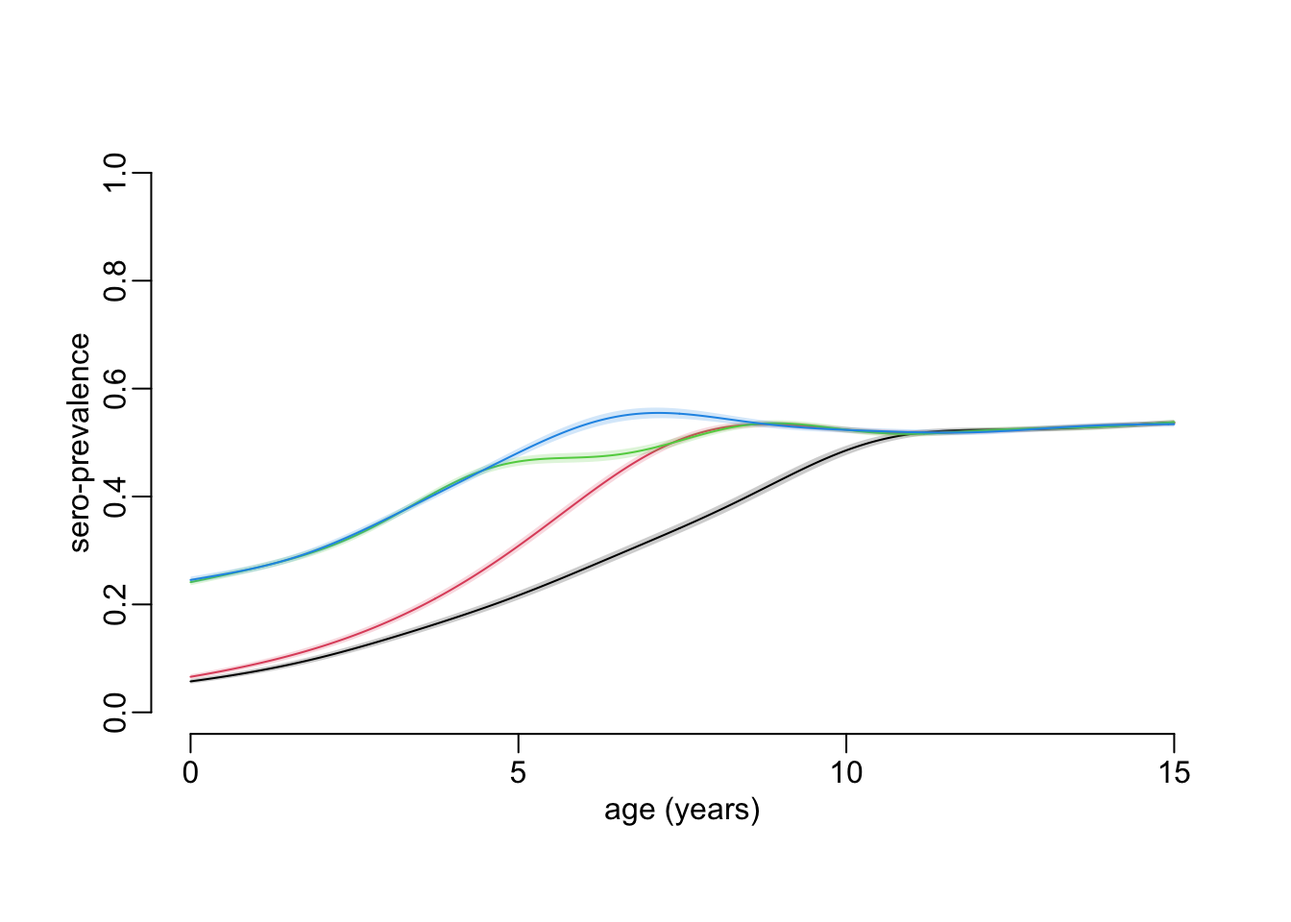
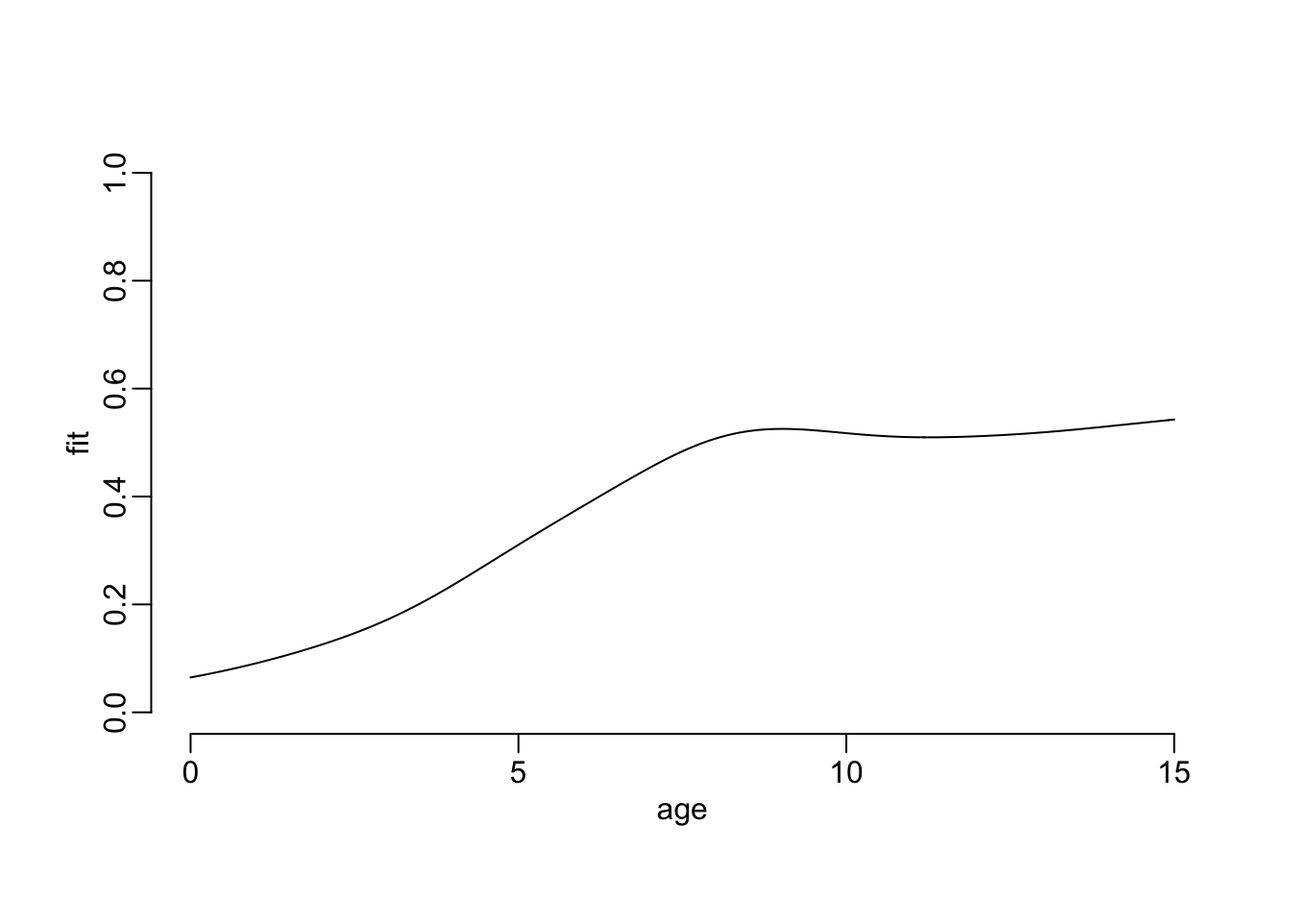
Adding extrapolation on age

diff --git a/analysis.html b/analysis.html
@@ -90,7 +90,10 @@ pre > code.sourceCode > span > a:first-child::before { text-decoration: underlin
   <li><a href="#algorithm" id="toc-algorithm" class="nav-link" data-scroll-target="#algorithm"><span class="header-section-number">6.2</span> Algorithm</a></li>
   <li><a href="#implementation" id="toc-implementation" class="nav-link" data-scroll-target="#implementation"><span class="header-section-number">6.3</span> Implementation</a></li>
   </ul></li>
-  <li><a href="#correcting-for-aging" id="toc-correcting-for-aging" class="nav-link" data-scroll-target="#correcting-for-aging"><span class="header-section-number">7</span> Correcting for aging</a></li>
+  <li><a href="#correcting-for-aging" id="toc-correcting-for-aging" class="nav-link" data-scroll-target="#correcting-for-aging"><span class="header-section-number">7</span> Correcting for aging</a>
+  <ul class="collapse">
+  <li><a href="#with-extrapolation" id="toc-with-extrapolation" class="nav-link" data-scroll-target="#with-extrapolation"><span class="header-section-number">7.1</span> With extrapolation</a></li>
+  </ul></li>
   </ul>
 </nav>
 </div>
@@ -353,49 +356,51 @@ pre > code.sourceCode > span > a:first-child::before { text-decoration: underlin
 <span id="cb18-20"><a href="#cb18-20" aria-hidden="true" tabindex="-1"></a>    <span class="fu">bind_rows</span>() <span class="sc">|&gt;</span> </span>
 <span id="cb18-21"><a href="#cb18-21" aria-hidden="true" tabindex="-1"></a>    <span class="fu">na.exclude</span>()</span>
 <span id="cb18-22"><a href="#cb18-22" aria-hidden="true" tabindex="-1"></a><span class="co">#</span><span class="re">END</span><span class="co">###################################################################################</span></span>
-<span id="cb18-23"><a href="#cb18-23" aria-hidden="true" tabindex="-1"></a>  data <span class="sc">|&gt;</span> </span>
-<span id="cb18-24"><a href="#cb18-24" aria-hidden="true" tabindex="-1"></a><span class="co"># Step 1:</span></span>
-<span id="cb18-25"><a href="#cb18-25" aria-hidden="true" tabindex="-1"></a>    <span class="fu">group_by</span>(collection) <span class="sc">|&gt;</span> </span>
-<span id="cb18-26"><a href="#cb18-26" aria-hidden="true" tabindex="-1"></a>    <span class="fu">group_modify</span>(<span class="sc">~</span> .x <span class="sc">|&gt;</span></span>
-<span id="cb18-27"><a href="#cb18-27" aria-hidden="true" tabindex="-1"></a>                   <span class="fu">age_profile</span>(age_values, ci) <span class="sc">|&gt;</span> </span>
-<span id="cb18-28"><a href="#cb18-28" aria-hidden="true" tabindex="-1"></a>                   <span class="fu">mutate</span>(<span class="fu">across</span>(<span class="fu">c</span>(fit, lwr, upr), <span class="sc">~</span> <span class="fu">map</span>(.x, <span class="sc">~</span> <span class="fu">rbinom</span>(n, <span class="dv">1</span>, .x))))) <span class="sc">|&gt;</span> </span>
-<span id="cb18-29"><a href="#cb18-29" aria-hidden="true" tabindex="-1"></a><span class="co">#START#################################################################################</span></span>
-<span id="cb18-30"><a href="#cb18-30" aria-hidden="true" tabindex="-1"></a><span class="co"># First modification:</span></span>
-<span id="cb18-31"><a href="#cb18-31" aria-hidden="true" tabindex="-1"></a><span class="co">#    ungroup() |&gt; </span></span>
-<span id="cb18-32"><a href="#cb18-32" aria-hidden="true" tabindex="-1"></a><span class="co">#    mutate(collection_time = mean_collection_times[as.character(collection)]) |&gt; </span></span>
-<span id="cb18-33"><a href="#cb18-33" aria-hidden="true" tabindex="-1"></a>    <span class="fu">group_split</span>() <span class="sc">|&gt;</span> </span>
-<span id="cb18-34"><a href="#cb18-34" aria-hidden="true" tabindex="-1"></a>    <span class="fu">map2</span>(age_time, bind_cols) <span class="sc">|&gt;</span> </span>
-<span id="cb18-35"><a href="#cb18-35" aria-hidden="true" tabindex="-1"></a>    <span class="fu">bind_rows</span>() <span class="sc">|&gt;</span> </span>
-<span id="cb18-36"><a href="#cb18-36" aria-hidden="true" tabindex="-1"></a><span class="co">#</span><span class="re">END</span><span class="co">###################################################################################</span></span>
-<span id="cb18-37"><a href="#cb18-37" aria-hidden="true" tabindex="-1"></a>    <span class="fu">unnest</span>(<span class="fu">c</span>(fit, lwr, upr)) <span class="sc">|&gt;</span></span>
-<span id="cb18-38"><a href="#cb18-38" aria-hidden="true" tabindex="-1"></a>    <span class="fu">pivot_longer</span>(<span class="fu">c</span>(fit, lwr, upr), <span class="at">names_to =</span> <span class="st">"line"</span>, <span class="at">values_to =</span> <span class="st">"seropositvty"</span>) <span class="sc">|&gt;</span> </span>
-<span id="cb18-39"><a href="#cb18-39" aria-hidden="true" tabindex="-1"></a><span class="co"># Step 2a:</span></span>
-<span id="cb18-40"><a href="#cb18-40" aria-hidden="true" tabindex="-1"></a><span class="co">#START#################################################################################</span></span>
-<span id="cb18-41"><a href="#cb18-41" aria-hidden="true" tabindex="-1"></a><span class="co"># Second modification:</span></span>
-<span id="cb18-42"><a href="#cb18-42" aria-hidden="true" tabindex="-1"></a><span class="co">#    group_by(age, line) |&gt;  </span></span>
-<span id="cb18-43"><a href="#cb18-43" aria-hidden="true" tabindex="-1"></a>    <span class="fu">filter</span>(cohort <span class="sc">&lt;</span> <span class="fu">max</span>(age) <span class="sc">-</span> <span class="fu">diff</span>(<span class="fu">range</span>(mean_collection_times)) <span class="sc">/</span> <span class="dv">365</span>) <span class="sc">|&gt;</span></span>
-<span id="cb18-44"><a href="#cb18-44" aria-hidden="true" tabindex="-1"></a>    <span class="fu">group_by</span>(cohort, line) <span class="sc">|&gt;</span> </span>
-<span id="cb18-45"><a href="#cb18-45" aria-hidden="true" tabindex="-1"></a><span class="co">#</span><span class="re">END</span><span class="co">###################################################################################</span></span>
-<span id="cb18-46"><a href="#cb18-46" aria-hidden="true" tabindex="-1"></a>    <span class="fu">group_modify</span>(<span class="sc">~</span> .x <span class="sc">%&gt;%</span></span>
-<span id="cb18-47"><a href="#cb18-47" aria-hidden="true" tabindex="-1"></a>                   <span class="fu">scam</span>(seropositvty <span class="sc">~</span> <span class="fu">s</span>(collection_time, <span class="at">bs =</span> <span class="st">"mpi"</span>), binomial, .) <span class="sc">|&gt;</span> </span>
-<span id="cb18-48"><a href="#cb18-48" aria-hidden="true" tabindex="-1"></a>                   <span class="fu">predict2</span>(<span class="fu">list</span>(<span class="at">collection_time =</span> mean_collection_times)) <span class="sc">%&gt;%</span></span>
-<span id="cb18-49"><a href="#cb18-49" aria-hidden="true" tabindex="-1"></a>                   <span class="fu">tibble</span>(<span class="at">collection_time =</span> mean_collection_times,</span>
-<span id="cb18-50"><a href="#cb18-50" aria-hidden="true" tabindex="-1"></a>                          <span class="at">seroprevalence  =</span> .)) <span class="sc">|&gt;</span> </span>
-<span id="cb18-51"><a href="#cb18-51" aria-hidden="true" tabindex="-1"></a>    <span class="fu">ungroup</span>() <span class="sc">|&gt;</span> </span>
-<span id="cb18-52"><a href="#cb18-52" aria-hidden="true" tabindex="-1"></a><span class="co"># Step 2b:</span></span>
-<span id="cb18-53"><a href="#cb18-53" aria-hidden="true" tabindex="-1"></a><span class="co">#START#################################################################################</span></span>
-<span id="cb18-54"><a href="#cb18-54" aria-hidden="true" tabindex="-1"></a><span class="co"># Third modification:  </span></span>
-<span id="cb18-55"><a href="#cb18-55" aria-hidden="true" tabindex="-1"></a>    <span class="fu">left_join</span>(age_time_inv, <span class="at">by =</span> <span class="fu">c</span>(<span class="st">"cohort"</span>, <span class="st">"collection_time"</span>)) <span class="sc">|&gt;</span> </span>
-<span id="cb18-56"><a href="#cb18-56" aria-hidden="true" tabindex="-1"></a><span class="co">#</span><span class="re">END</span><span class="co">###################################################################################</span></span>
-<span id="cb18-57"><a href="#cb18-57" aria-hidden="true" tabindex="-1"></a>    <span class="fu">group_by</span>(collection_time, line) <span class="sc">|&gt;</span> </span>
-<span id="cb18-58"><a href="#cb18-58" aria-hidden="true" tabindex="-1"></a>    <span class="fu">group_modify</span>(<span class="sc">~</span> .x <span class="sc">|&gt;</span></span>
-<span id="cb18-59"><a href="#cb18-59" aria-hidden="true" tabindex="-1"></a>                   <span class="fu">mutate</span>(<span class="fu">across</span>(seroprevalence, <span class="sc">~</span> <span class="fu">gam</span>(.x <span class="sc">~</span> <span class="fu">s</span>(age), betar) <span class="sc">|&gt;</span> </span>
-<span id="cb18-60"><a href="#cb18-60" aria-hidden="true" tabindex="-1"></a>                                                   <span class="fu">predict2</span>()))) <span class="sc">|&gt;</span> </span>
-<span id="cb18-61"><a href="#cb18-61" aria-hidden="true" tabindex="-1"></a>    <span class="fu">ungroup</span>() <span class="sc">|&gt;</span> </span>
-<span id="cb18-62"><a href="#cb18-62" aria-hidden="true" tabindex="-1"></a>    <span class="fu">pivot_wider</span>(<span class="at">names_from =</span> line, <span class="at">values_from =</span> seroprevalence) <span class="sc">|&gt;</span> </span>
-<span id="cb18-63"><a href="#cb18-63" aria-hidden="true" tabindex="-1"></a>    <span class="fu">group_by</span>(collection_time) <span class="sc">|&gt;</span> </span>
-<span id="cb18-64"><a href="#cb18-64" aria-hidden="true" tabindex="-1"></a>    <span class="fu">group_split</span>()</span>
-<span id="cb18-65"><a href="#cb18-65" aria-hidden="true" tabindex="-1"></a>}</span></code><button title="Copy to Clipboard" class="code-copy-button"><i class="bi"></i></button></pre></div>
+<span id="cb18-23"><a href="#cb18-23" aria-hidden="true" tabindex="-1"></a></span>
+<span id="cb18-24"><a href="#cb18-24" aria-hidden="true" tabindex="-1"></a>  data <span class="sc">|&gt;</span> </span>
+<span id="cb18-25"><a href="#cb18-25" aria-hidden="true" tabindex="-1"></a><span class="co"># Step 1:</span></span>
+<span id="cb18-26"><a href="#cb18-26" aria-hidden="true" tabindex="-1"></a>    <span class="fu">group_by</span>(collection) <span class="sc">|&gt;</span> </span>
+<span id="cb18-27"><a href="#cb18-27" aria-hidden="true" tabindex="-1"></a>    <span class="fu">group_modify</span>(<span class="sc">~</span> .x <span class="sc">|&gt;</span></span>
+<span id="cb18-28"><a href="#cb18-28" aria-hidden="true" tabindex="-1"></a>                   <span class="fu">age_profile</span>(age_values, ci) <span class="sc">|&gt;</span> </span>
+<span id="cb18-29"><a href="#cb18-29" aria-hidden="true" tabindex="-1"></a>                   <span class="fu">mutate</span>(<span class="fu">across</span>(<span class="fu">c</span>(fit, lwr, upr), <span class="sc">~</span> <span class="fu">map</span>(.x, <span class="sc">~</span> <span class="fu">rbinom</span>(n, <span class="dv">1</span>, .x))))) <span class="sc">|&gt;</span> </span>
+<span id="cb18-30"><a href="#cb18-30" aria-hidden="true" tabindex="-1"></a><span class="co">#START#################################################################################</span></span>
+<span id="cb18-31"><a href="#cb18-31" aria-hidden="true" tabindex="-1"></a><span class="co"># First modification:</span></span>
+<span id="cb18-32"><a href="#cb18-32" aria-hidden="true" tabindex="-1"></a><span class="co">#    ungroup() |&gt; </span></span>
+<span id="cb18-33"><a href="#cb18-33" aria-hidden="true" tabindex="-1"></a><span class="co">#    mutate(collection_time = mean_collection_times[as.character(collection)]) |&gt; </span></span>
+<span id="cb18-34"><a href="#cb18-34" aria-hidden="true" tabindex="-1"></a>    <span class="fu">group_split</span>() <span class="sc">|&gt;</span> </span>
+<span id="cb18-35"><a href="#cb18-35" aria-hidden="true" tabindex="-1"></a>    <span class="fu">map2</span>(age_time, bind_cols) <span class="sc">|&gt;</span> </span>
+<span id="cb18-36"><a href="#cb18-36" aria-hidden="true" tabindex="-1"></a>    <span class="fu">bind_rows</span>() <span class="sc">|&gt;</span> </span>
+<span id="cb18-37"><a href="#cb18-37" aria-hidden="true" tabindex="-1"></a><span class="co">#</span><span class="re">END</span><span class="co">###################################################################################</span></span>
+<span id="cb18-38"><a href="#cb18-38" aria-hidden="true" tabindex="-1"></a>    <span class="fu">unnest</span>(<span class="fu">c</span>(fit, lwr, upr)) <span class="sc">|&gt;</span></span>
+<span id="cb18-39"><a href="#cb18-39" aria-hidden="true" tabindex="-1"></a>    <span class="fu">pivot_longer</span>(<span class="fu">c</span>(fit, lwr, upr), <span class="at">names_to =</span> <span class="st">"line"</span>, <span class="at">values_to =</span> <span class="st">"seropositvty"</span>) <span class="sc">|&gt;</span> </span>
+<span id="cb18-40"><a href="#cb18-40" aria-hidden="true" tabindex="-1"></a><span class="co"># Step 2a:</span></span>
+<span id="cb18-41"><a href="#cb18-41" aria-hidden="true" tabindex="-1"></a><span class="co">#START#################################################################################</span></span>
+<span id="cb18-42"><a href="#cb18-42" aria-hidden="true" tabindex="-1"></a><span class="co"># Second modification:</span></span>
+<span id="cb18-43"><a href="#cb18-43" aria-hidden="true" tabindex="-1"></a><span class="co">#    group_by(age, line) |&gt;  </span></span>
+<span id="cb18-44"><a href="#cb18-44" aria-hidden="true" tabindex="-1"></a>    <span class="fu">filter</span>(cohort <span class="sc">&lt;</span> <span class="fu">max</span>(age) <span class="sc">-</span> <span class="fu">diff</span>(<span class="fu">range</span>(mean_collection_times)) <span class="sc">/</span> <span class="dv">365</span>) <span class="sc">|&gt;</span></span>
+<span id="cb18-45"><a href="#cb18-45" aria-hidden="true" tabindex="-1"></a>    <span class="fu">group_by</span>(cohort, line) <span class="sc">|&gt;</span> </span>
+<span id="cb18-46"><a href="#cb18-46" aria-hidden="true" tabindex="-1"></a><span class="co">#</span><span class="re">END</span><span class="co">###################################################################################</span></span>
+<span id="cb18-47"><a href="#cb18-47" aria-hidden="true" tabindex="-1"></a>    <span class="fu">group_modify</span>(<span class="sc">~</span> .x <span class="sc">%&gt;%</span></span>
+<span id="cb18-48"><a href="#cb18-48" aria-hidden="true" tabindex="-1"></a>                   <span class="fu">scam</span>(seropositvty <span class="sc">~</span> <span class="fu">s</span>(collection_time, <span class="at">bs =</span> <span class="st">"mpi"</span>), binomial, .) <span class="sc">|&gt;</span> </span>
+<span id="cb18-49"><a href="#cb18-49" aria-hidden="true" tabindex="-1"></a>                   <span class="fu">predict2</span>(<span class="fu">list</span>(<span class="at">collection_time =</span> mean_collection_times)) <span class="sc">%&gt;%</span></span>
+<span id="cb18-50"><a href="#cb18-50" aria-hidden="true" tabindex="-1"></a>                   <span class="fu">tibble</span>(<span class="at">collection_time =</span> mean_collection_times,</span>
+<span id="cb18-51"><a href="#cb18-51" aria-hidden="true" tabindex="-1"></a>                          <span class="at">seroprevalence  =</span> .)) <span class="sc">|&gt;</span> </span>
+<span id="cb18-52"><a href="#cb18-52" aria-hidden="true" tabindex="-1"></a>    <span class="fu">ungroup</span>() <span class="sc">|&gt;</span> </span>
+<span id="cb18-53"><a href="#cb18-53" aria-hidden="true" tabindex="-1"></a><span class="co"># Step 2b:</span></span>
+<span id="cb18-54"><a href="#cb18-54" aria-hidden="true" tabindex="-1"></a><span class="co">#START#################################################################################</span></span>
+<span id="cb18-55"><a href="#cb18-55" aria-hidden="true" tabindex="-1"></a><span class="co"># Third modification:  </span></span>
+<span id="cb18-56"><a href="#cb18-56" aria-hidden="true" tabindex="-1"></a>    <span class="fu">left_join</span>(age_time_inv, <span class="fu">c</span>(<span class="st">"cohort"</span>, <span class="st">"collection_time"</span>)) <span class="sc">|&gt;</span> </span>
+<span id="cb18-57"><a href="#cb18-57" aria-hidden="true" tabindex="-1"></a><span class="co">#</span><span class="re">END</span><span class="co">###################################################################################</span></span>
+<span id="cb18-58"><a href="#cb18-58" aria-hidden="true" tabindex="-1"></a>    <span class="fu">group_by</span>(collection_time, line) <span class="sc">|&gt;</span> </span>
+<span id="cb18-59"><a href="#cb18-59" aria-hidden="true" tabindex="-1"></a>    <span class="fu">group_modify</span>(<span class="sc">~</span> .x <span class="sc">|&gt;</span></span>
+<span id="cb18-60"><a href="#cb18-60" aria-hidden="true" tabindex="-1"></a>                   <span class="fu">mutate</span>(<span class="fu">across</span>(seroprevalence,</span>
+<span id="cb18-61"><a href="#cb18-61" aria-hidden="true" tabindex="-1"></a>                                 <span class="sc">~</span> <span class="fu">gam</span>(.x <span class="sc">~</span> <span class="fu">s</span>(age), betar) <span class="sc">|&gt;</span></span>
+<span id="cb18-62"><a href="#cb18-62" aria-hidden="true" tabindex="-1"></a>                                   <span class="fu">predict2</span>()))) <span class="sc">|&gt;</span></span>
+<span id="cb18-63"><a href="#cb18-63" aria-hidden="true" tabindex="-1"></a>    <span class="fu">ungroup</span>() <span class="sc">|&gt;</span> </span>
+<span id="cb18-64"><a href="#cb18-64" aria-hidden="true" tabindex="-1"></a>    <span class="fu">pivot_wider</span>(<span class="at">names_from =</span> line, <span class="at">values_from =</span> seroprevalence) <span class="sc">|&gt;</span> </span>
+<span id="cb18-65"><a href="#cb18-65" aria-hidden="true" tabindex="-1"></a>    <span class="fu">group_by</span>(collection_time) <span class="sc">|&gt;</span> </span>
+<span id="cb18-66"><a href="#cb18-66" aria-hidden="true" tabindex="-1"></a>    <span class="fu">group_split</span>()</span>
+<span id="cb18-67"><a href="#cb18-67" aria-hidden="true" tabindex="-1"></a>}</span></code><button title="Copy to Clipboard" class="code-copy-button"><i class="bi"></i></button></pre></div>
 </div>
 <p>Computing the new sero-prevalence profile (taking another 1’20”):</p>
 <div class="cell">
@@ -412,6 +417,81 @@ pre > code.sourceCode > span > a:first-child::before { text-decoration: underlin
 </div>
 </div>
 </div>
+<section id="with-extrapolation" class="level3" data-number="7.1">
+<h3 data-number="7.1" class="anchored" data-anchor-id="with-extrapolation"><span class="header-section-number">7.1</span> With extrapolation</h3>
+<p>Here is an alternative version of the above <code>age_profile_constrained_cohort()</code> function that performs extrapolation over the whole age range for each time point. Same as before, we highlight the code changes in step 2b:</p>
+<div class="cell">
+<div class="sourceCode cell-code" id="cb21"><pre class="sourceCode r code-with-copy"><code class="sourceCode r"><span id="cb21-1"><a href="#cb21-1" aria-hidden="true" tabindex="-1"></a>age_profile_constrained_cohort2 <span class="ot">&lt;-</span> <span class="cf">function</span>(data, <span class="at">age_values =</span> <span class="fu">seq</span>(<span class="dv">0</span>, <span class="dv">15</span>, <span class="at">le =</span> <span class="dv">512</span>),</span>
+<span id="cb21-2"><a href="#cb21-2" aria-hidden="true" tabindex="-1"></a>                                           <span class="at">ci =</span> .<span class="dv">95</span>, <span class="at">n =</span> <span class="dv">100</span>) {</span>
+<span id="cb21-3"><a href="#cb21-3" aria-hidden="true" tabindex="-1"></a>  mean_collection_times <span class="ot">&lt;-</span> data <span class="sc">|&gt;</span> </span>
+<span id="cb21-4"><a href="#cb21-4" aria-hidden="true" tabindex="-1"></a>    <span class="fu">group_by</span>(collection) <span class="sc">|&gt;</span> </span>
+<span id="cb21-5"><a href="#cb21-5" aria-hidden="true" tabindex="-1"></a>    <span class="fu">summarise</span>(<span class="at">mean_col_date =</span> <span class="fu">mean</span>(col_date2)) <span class="sc">|&gt;</span> </span>
+<span id="cb21-6"><a href="#cb21-6" aria-hidden="true" tabindex="-1"></a>    <span class="fu">with</span>(<span class="fu">setNames</span>(mean_col_date, collection))</span>
+<span id="cb21-7"><a href="#cb21-7" aria-hidden="true" tabindex="-1"></a>  </span>
+<span id="cb21-8"><a href="#cb21-8" aria-hidden="true" tabindex="-1"></a>  cohorts <span class="ot">&lt;-</span> <span class="fu">cumsum</span>(<span class="fu">c</span>(<span class="dv">0</span>, <span class="fu">diff</span>(mean_collection_times))) <span class="sc">|&gt;</span></span>
+<span id="cb21-9"><a href="#cb21-9" aria-hidden="true" tabindex="-1"></a>    <span class="fu">divide_by</span>(<span class="dv">365</span> <span class="sc">*</span> <span class="fu">mean</span>(<span class="fu">diff</span>(age_values))) <span class="sc">|&gt;</span> </span>
+<span id="cb21-10"><a href="#cb21-10" aria-hidden="true" tabindex="-1"></a>    <span class="fu">round</span>() <span class="sc">|&gt;</span> </span>
+<span id="cb21-11"><a href="#cb21-11" aria-hidden="true" tabindex="-1"></a>    <span class="fu">map</span>(shift_right, age_values)</span>
+<span id="cb21-12"><a href="#cb21-12" aria-hidden="true" tabindex="-1"></a>  </span>
+<span id="cb21-13"><a href="#cb21-13" aria-hidden="true" tabindex="-1"></a>  age_time <span class="ot">&lt;-</span> <span class="fu">map2</span>(mean_collection_times, cohorts,</span>
+<span id="cb21-14"><a href="#cb21-14" aria-hidden="true" tabindex="-1"></a>                   <span class="sc">~</span> <span class="fu">tibble</span>(<span class="at">collection_time =</span> .x, <span class="at">cohort =</span> .y))</span>
+<span id="cb21-15"><a href="#cb21-15" aria-hidden="true" tabindex="-1"></a>  </span>
+<span id="cb21-16"><a href="#cb21-16" aria-hidden="true" tabindex="-1"></a>  age_time_inv <span class="ot">&lt;-</span> age_time <span class="sc">|&gt;</span> </span>
+<span id="cb21-17"><a href="#cb21-17" aria-hidden="true" tabindex="-1"></a>    <span class="fu">map</span>(<span class="sc">~</span> <span class="fu">cbind</span>(.x, <span class="at">age =</span> age_values)) <span class="sc">|&gt;</span> </span>
+<span id="cb21-18"><a href="#cb21-18" aria-hidden="true" tabindex="-1"></a>    <span class="fu">bind_rows</span>() <span class="sc">|&gt;</span> </span>
+<span id="cb21-19"><a href="#cb21-19" aria-hidden="true" tabindex="-1"></a>    <span class="fu">na.exclude</span>()</span>
+<span id="cb21-20"><a href="#cb21-20" aria-hidden="true" tabindex="-1"></a></span>
+<span id="cb21-21"><a href="#cb21-21" aria-hidden="true" tabindex="-1"></a>  data <span class="sc">|&gt;</span> </span>
+<span id="cb21-22"><a href="#cb21-22" aria-hidden="true" tabindex="-1"></a><span class="co"># Step 1:</span></span>
+<span id="cb21-23"><a href="#cb21-23" aria-hidden="true" tabindex="-1"></a>    <span class="fu">group_by</span>(collection) <span class="sc">|&gt;</span> </span>
+<span id="cb21-24"><a href="#cb21-24" aria-hidden="true" tabindex="-1"></a>    <span class="fu">group_modify</span>(<span class="sc">~</span> .x <span class="sc">|&gt;</span></span>
+<span id="cb21-25"><a href="#cb21-25" aria-hidden="true" tabindex="-1"></a>                   <span class="fu">age_profile</span>(age_values, ci) <span class="sc">|&gt;</span> </span>
+<span id="cb21-26"><a href="#cb21-26" aria-hidden="true" tabindex="-1"></a>                   <span class="fu">mutate</span>(<span class="fu">across</span>(<span class="fu">c</span>(fit, lwr, upr), <span class="sc">~</span> <span class="fu">map</span>(.x, <span class="sc">~</span> <span class="fu">rbinom</span>(n, <span class="dv">1</span>, .x))))) <span class="sc">|&gt;</span> </span>
+<span id="cb21-27"><a href="#cb21-27" aria-hidden="true" tabindex="-1"></a>    <span class="fu">group_split</span>() <span class="sc">|&gt;</span> </span>
+<span id="cb21-28"><a href="#cb21-28" aria-hidden="true" tabindex="-1"></a>    <span class="fu">map2</span>(age_time, bind_cols) <span class="sc">|&gt;</span> </span>
+<span id="cb21-29"><a href="#cb21-29" aria-hidden="true" tabindex="-1"></a>    <span class="fu">bind_rows</span>() <span class="sc">|&gt;</span> </span>
+<span id="cb21-30"><a href="#cb21-30" aria-hidden="true" tabindex="-1"></a>    <span class="fu">unnest</span>(<span class="fu">c</span>(fit, lwr, upr)) <span class="sc">|&gt;</span></span>
+<span id="cb21-31"><a href="#cb21-31" aria-hidden="true" tabindex="-1"></a>    <span class="fu">pivot_longer</span>(<span class="fu">c</span>(fit, lwr, upr), <span class="at">names_to =</span> <span class="st">"line"</span>, <span class="at">values_to =</span> <span class="st">"seropositvty"</span>) <span class="sc">|&gt;</span> </span>
+<span id="cb21-32"><a href="#cb21-32" aria-hidden="true" tabindex="-1"></a><span class="co"># Step 2a:</span></span>
+<span id="cb21-33"><a href="#cb21-33" aria-hidden="true" tabindex="-1"></a>    <span class="fu">filter</span>(cohort <span class="sc">&lt;</span> <span class="fu">max</span>(age) <span class="sc">-</span> <span class="fu">diff</span>(<span class="fu">range</span>(mean_collection_times)) <span class="sc">/</span> <span class="dv">365</span>) <span class="sc">|&gt;</span></span>
+<span id="cb21-34"><a href="#cb21-34" aria-hidden="true" tabindex="-1"></a>    <span class="fu">group_by</span>(cohort, line) <span class="sc">|&gt;</span> </span>
+<span id="cb21-35"><a href="#cb21-35" aria-hidden="true" tabindex="-1"></a>    <span class="fu">group_modify</span>(<span class="sc">~</span> .x <span class="sc">%&gt;%</span></span>
+<span id="cb21-36"><a href="#cb21-36" aria-hidden="true" tabindex="-1"></a>                   <span class="fu">scam</span>(seropositvty <span class="sc">~</span> <span class="fu">s</span>(collection_time, <span class="at">bs =</span> <span class="st">"mpi"</span>), binomial, .) <span class="sc">|&gt;</span> </span>
+<span id="cb21-37"><a href="#cb21-37" aria-hidden="true" tabindex="-1"></a>                   <span class="fu">predict2</span>(<span class="fu">list</span>(<span class="at">collection_time =</span> mean_collection_times)) <span class="sc">%&gt;%</span></span>
+<span id="cb21-38"><a href="#cb21-38" aria-hidden="true" tabindex="-1"></a>                   <span class="fu">tibble</span>(<span class="at">collection_time =</span> mean_collection_times,</span>
+<span id="cb21-39"><a href="#cb21-39" aria-hidden="true" tabindex="-1"></a>                          <span class="at">seroprevalence  =</span> .)) <span class="sc">|&gt;</span> </span>
+<span id="cb21-40"><a href="#cb21-40" aria-hidden="true" tabindex="-1"></a>    <span class="fu">ungroup</span>() <span class="sc">|&gt;</span> </span>
+<span id="cb21-41"><a href="#cb21-41" aria-hidden="true" tabindex="-1"></a><span class="co"># Step 2b:</span></span>
+<span id="cb21-42"><a href="#cb21-42" aria-hidden="true" tabindex="-1"></a>    <span class="fu">left_join</span>(age_time_inv, <span class="fu">c</span>(<span class="st">"cohort"</span>, <span class="st">"collection_time"</span>)) <span class="sc">|&gt;</span> </span>
+<span id="cb21-43"><a href="#cb21-43" aria-hidden="true" tabindex="-1"></a>    <span class="fu">group_by</span>(collection_time, line) <span class="sc">|&gt;</span> </span>
+<span id="cb21-44"><a href="#cb21-44" aria-hidden="true" tabindex="-1"></a>    <span class="fu">group_modify</span>(<span class="sc">~</span> .x <span class="sc">|&gt;</span></span>
+<span id="cb21-45"><a href="#cb21-45" aria-hidden="true" tabindex="-1"></a>                   <span class="fu">right_join</span>(<span class="fu">tibble</span>(<span class="at">age =</span> age_values), <span class="st">"age"</span>) <span class="sc">|&gt;</span>          <span class="do">### added</span></span>
+<span id="cb21-46"><a href="#cb21-46" aria-hidden="true" tabindex="-1"></a>                   <span class="fu">arrange</span>(age) <span class="sc">|&gt;</span>                                         <span class="do">### added</span></span>
+<span id="cb21-47"><a href="#cb21-47" aria-hidden="true" tabindex="-1"></a>                   <span class="fu">mutate</span>(<span class="fu">across</span>(seroprevalence,</span>
+<span id="cb21-48"><a href="#cb21-48" aria-hidden="true" tabindex="-1"></a>                                 <span class="sc">~</span> <span class="fu">gam</span>(.x <span class="sc">~</span> <span class="fu">s</span>(age), betar) <span class="sc">|&gt;</span></span>
+<span id="cb21-49"><a href="#cb21-49" aria-hidden="true" tabindex="-1"></a>                                   <span class="fu">predict2</span>(<span class="fu">list</span>(<span class="at">age =</span> age_values))))) <span class="sc">|&gt;</span>  <span class="do">### modified</span></span>
+<span id="cb21-50"><a href="#cb21-50" aria-hidden="true" tabindex="-1"></a>    <span class="fu">ungroup</span>() <span class="sc">|&gt;</span> </span>
+<span id="cb21-51"><a href="#cb21-51" aria-hidden="true" tabindex="-1"></a>    <span class="fu">pivot_wider</span>(<span class="at">names_from =</span> line, <span class="at">values_from =</span> seroprevalence) <span class="sc">|&gt;</span> </span>
+<span id="cb21-52"><a href="#cb21-52" aria-hidden="true" tabindex="-1"></a>    <span class="fu">group_by</span>(collection_time) <span class="sc">|&gt;</span> </span>
+<span id="cb21-53"><a href="#cb21-53" aria-hidden="true" tabindex="-1"></a>    <span class="fu">group_split</span>()</span>
+<span id="cb21-54"><a href="#cb21-54" aria-hidden="true" tabindex="-1"></a>}</span></code><button title="Copy to Clipboard" class="code-copy-button"><i class="bi"></i></button></pre></div>
+</div>
+<p>Let’s compute the values (another 1’20”):</p>
+<div class="cell">
+<div class="sourceCode cell-code" id="cb22"><pre class="sourceCode r code-with-copy"><code class="sourceCode r"><span id="cb22-1"><a href="#cb22-1" aria-hidden="true" tabindex="-1"></a>constrained_age_profiles_cohort2 <span class="ot">&lt;-</span> <span class="fu">age_profile_constrained_cohort2</span>(hfmd)</span></code><button title="Copy to Clipboard" class="code-copy-button"><i class="bi"></i></button></pre></div>
+</div>
+<p>And here is what the plot now looks like:</p>
+<div class="cell">
+<div class="sourceCode cell-code" id="cb23"><pre class="sourceCode r code-with-copy"><code class="sourceCode r"><span id="cb23-1"><a href="#cb23-1" aria-hidden="true" tabindex="-1"></a><span class="fu">plot_profiles</span>(constrained_age_profiles_cohort2)</span></code><button title="Copy to Clipboard" class="code-copy-button"><i class="bi"></i></button></pre></div>
+<div class="cell-output-display">
+<div>
+<figure class="figure">
+<p><img src="analysis_files/figure-html/unnamed-chunk-25-1.png" class="img-fluid figure-img" width="672"></p>
+</figure>
+</div>
+</div>
+</div>
+</section>
 </section>
 
 </main>
